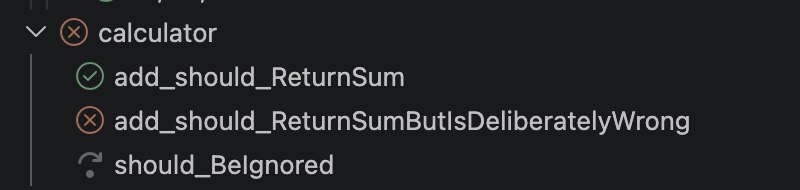
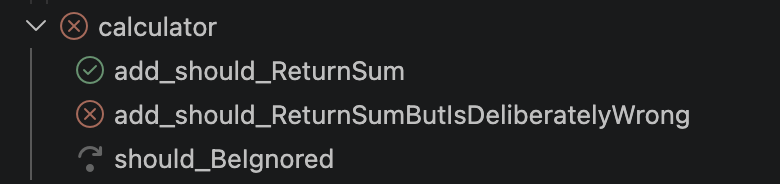
📝 Image layout tweaks
[skip ci]

diff --git a/README.md b/README.md
@@ -77,8 +77,8 @@ This table of options should be read as `ceedlingExplorer.<property>`.
 |---|---|
 | `.projects` | An array of objects with the path to the Ceedling project (or yml-file) to use (relative to the workspace folder). See below for its `path`, `debugLaunchConfig`, and `name` properties. |
 | `.shellPath` | The path to the shell where Ceedling is installed. By default (or if this option is set to `null`), it uses the OS default shell. |
-| `.prettyTestLabel` | Shortens the test label in the _Testing_ explorer by dropping its leading prefix (e.g. inactive `test_BlinkTaskShouldToggleLed` vs. active `BlinkTaskShouldToggleLed`).<br><br> Inactive:<br>![prettyTestLabelInactive](img/prettyTestLabelInactive.png)<br><br> Active: <br> ![prettyTestLabelActive](img/prettyTestLabelActive.png)|
-| `.prettyTestFileLabel` | Shortens the test file label in the _Testing_ explorer by dropping its path, leading prefix, and file type (e.g. inactive `test/LEDs/test_BlinkTask.c` vs. active `BlinkTask`).<br><br>Inactive: <br><img src="img/prettyTestFileLabelInactive.png" alt="prettyTestFileLabelInactive" width="72%"><br><br> Active:<br><img src="img/prettyTestFileLabelActive.png" alt="prettyTestFileLabelActive" width="72%"> |
+| `.prettyTestLabel` | Shortens the test label in the _Testing_ explorer by dropping its leading prefix (e.g. inactive `test_BlinkTaskShouldToggleLed` vs. active `BlinkTaskShouldToggleLed`).<br><br>Inactive:<br><img src="img/prettyTestLabelInactive.png" alt="prettyTestLabelInactive" width="420"><br><br> Active:<br><img src="img/prettyTestLabelActive.png" alt="prettyTestLabelActive" width="420">|
+| `.prettyTestFileLabel` | Shortens the test file label in the _Testing_ explorer by dropping its path, leading prefix, and file type (e.g. inactive `test/LEDs/test_BlinkTask.c` vs. active `BlinkTask`).<br><br>Inactive:<br><img src="img/prettyTestFileLabelInactive.png" alt="prettyTestFileLabelInactive" width="320"><br><br> Active:<br><img src="img/prettyTestFileLabelActive.png" alt="prettyTestFileLabelActive" width="320"> |
 | `.testCommandArgs` | The command line arguments used to run Ceedling tests. The first argument has to literally contain the `${TEST_ID}` tag. The value `["test:${TEST_ID}"]` is used by default. For example, the arguments `"test:${TEST_ID}", "gcov:${TEST_ID}", "utils:gcov"` can be used to run tests and generate a gcov report. |
 | `.problemMatching` | Configuration of compiler/linker problem matching. See the [Problem matching](#problem%20matching) section for details. |
 | `.testCaseMacroAliases` | An array of aliases for Unity’s parameterized test `TEST_CASE` macro. By default it is `["TEST_CASE"]`. |
